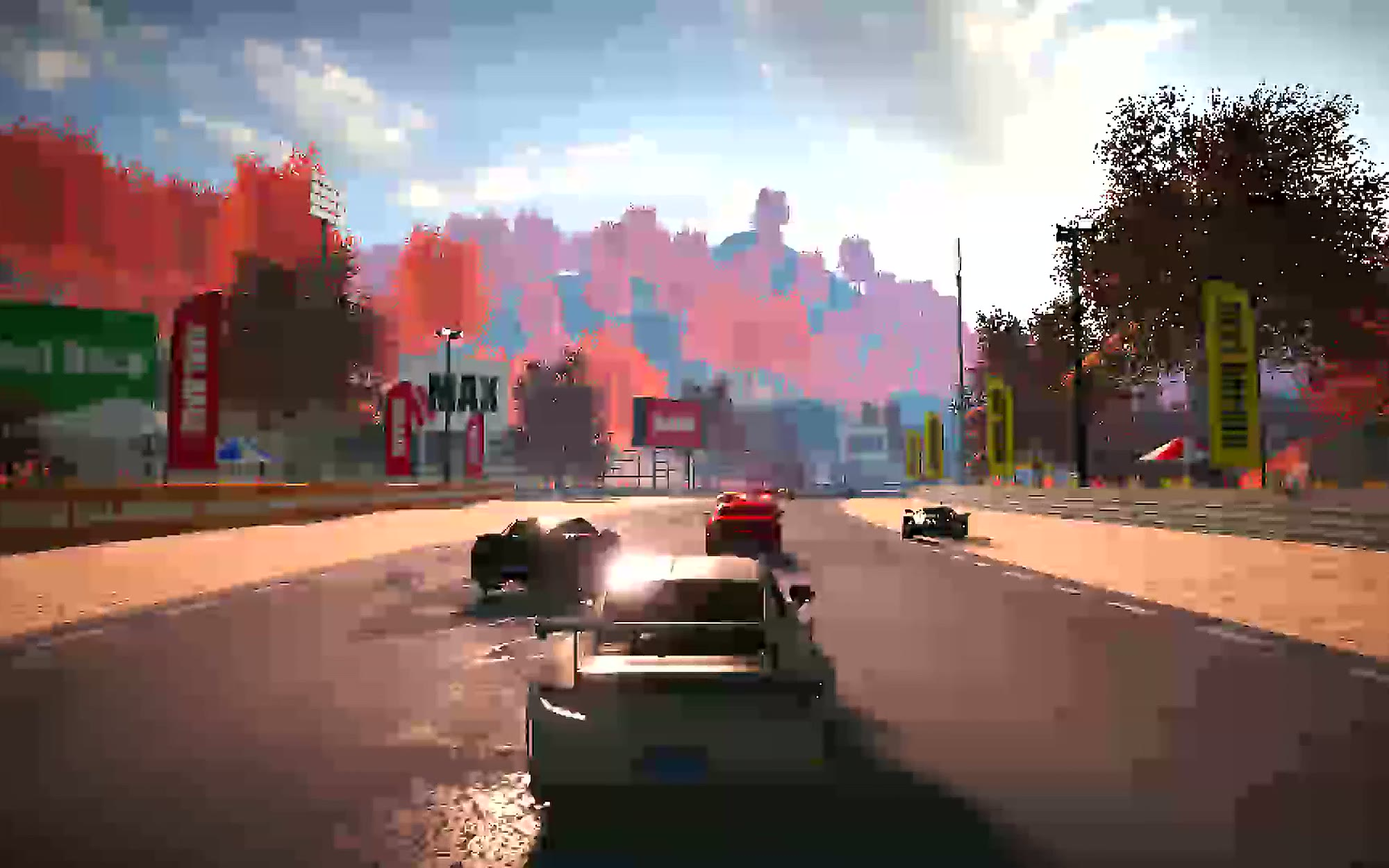
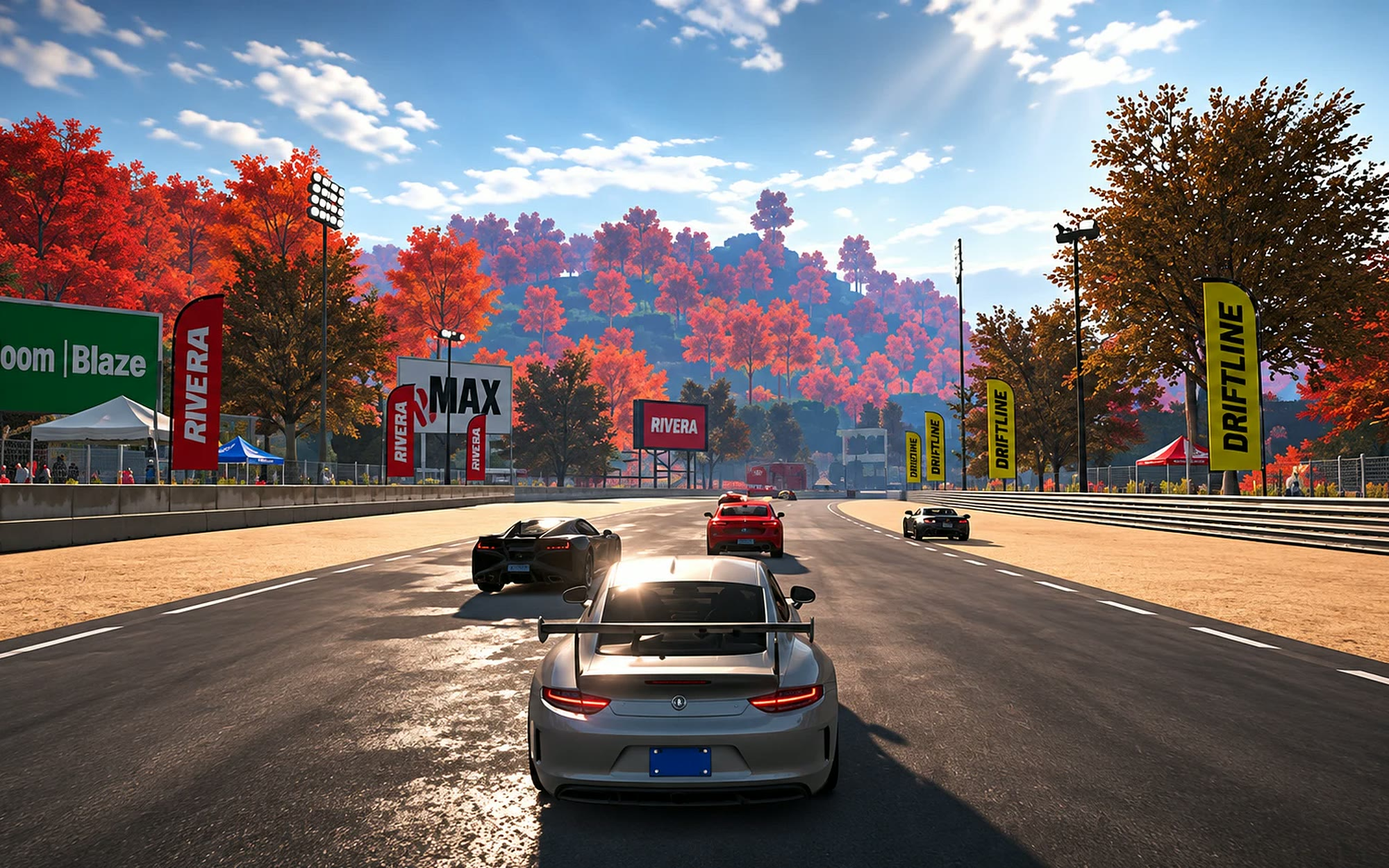
Use the upscaled racing art as the whole hero, and fix the scrim
The supplied upscale replaces the frame grab: sharper, cleaner, legible
signage. It now fills the hero on its own — the zoo slice is out for the
moment. The slice machinery stays, so adding a second path to heroSlices
splits the hero on the diagonal again; one path fills it.

Fixes a real bug the single image exposed. .hero-slices and the scrim
::before were both at z-index -2, and between equal z-indexes tree order
wins — ::before counts as the first child, so the art painted over the scrim
and the scrim did nothing at all. The art happened to be dark where the words
were, which is the only reason it looked fine. Art drops to -3; the scrim
composites now.

That invalidated the values either side of it, so both were retuned against
the real image, measured by compositing hero-racing.jpg with the applied
gradient on a canvas and sampling under the glyph rects:
- desktop: white 12.2 and 12.7, amber 3.49, body 13.0
- mobile:  white 9.5 and 10.6, amber 5.09, body 9.07
Large text needs 3:1 and body 4.5:1, so all clear with margin. The amber line
is the tight one — it runs furthest right, where the plate is weakest, and
measured 1.77:1 at one point before the rebalance.

Mobile keeps its own vertical scrim since the copy sits over the lower half
there rather than in a left-hand column.

diff --git a/src/index.css b/src/index.css
@@ -335,24 +335,19 @@ body {
 
 /* With real art in place the glows step back and a scrim keeps text legible. */
 .hero-cinematic.has-art::before {
-  /* Two layers: a soft plate anchored under the copy block, and a gentler
-     wash across the whole frame. Measured against the racing slice, a single
-     horizontal wash left the body text at 2.25:1 — the plate fixes that
-     without flattening the art on the right. */
+  /* A plate that stays strong across the whole copy column rather than
+     falling off radially — the headline runs to ~55% width and the amber
+     line was measuring 2.02:1 past the plate edge. */
   background:
-    radial-gradient(
-      95% 105% at 0% 72%,
-      rgba(4, 7, 12, 0.94) 0%,
-      rgba(4, 7, 12, 0.8) 40%,
-      transparent 74%
-    ),
     linear-gradient(
-      95deg,
-      rgba(5, 8, 14, 0.82) 0%,
-      rgba(5, 8, 14, 0.52) 45%,
-      rgba(5, 8, 14, 0.16) 74%,
-      rgba(5, 8, 14, 0.46) 100%
-    );
+      100deg,
+      rgba(4, 7, 12, 0.88) 0%,
+      rgba(4, 7, 12, 0.82) 38%,
+      rgba(4, 7, 12, 0.66) 58%,
+      rgba(4, 7, 12, 0.12) 80%,
+      rgba(4, 7, 12, 0.32) 100%
+    ),
+    linear-gradient(180deg, rgba(4, 7, 12, 0.25) 0%, transparent 38%, rgba(4, 7, 12, 0.28) 100%);
 }
 .hero-cinematic.has-art::after {
   display: none;
@@ -413,7 +408,9 @@ body {
 .hero-slices {
   position: absolute;
   inset: 0;
-  z-index: -2;
+  /* Below the scrim. Same z-index as ::before meant the art painted over it,
+     because tree order decides between equal z-indexes and ::before is first. */
+  z-index: -3;
 }
 .hero-slice {
   position: absolute;
@@ -459,10 +456,10 @@ body {
   .hero-cinematic.has-art::before {
     background: linear-gradient(
       180deg,
-      rgba(4, 7, 12, 0.42) 0%,
-      rgba(4, 7, 12, 0.62) 24%,
-      rgba(4, 7, 12, 0.88) 46%,
-      rgba(4, 7, 12, 0.93) 100%
+      rgba(4, 7, 12, 0.2) 0%,
+      rgba(4, 7, 12, 0.4) 26%,
+      rgba(4, 7, 12, 0.7) 48%,
+      rgba(4, 7, 12, 0.84) 100%
     );
   }
 }

diff --git a/src/Home.jsx b/src/Home.jsx
@@ -44,14 +44,20 @@ function Hero() {
       ref={heroRef}
       className={`hero-cinematic grain ${art ? "has-art" : ""}`}
     >
-      {/* Both games on one screen, cut on the logo's diagonal. */}
+      {/* One image fills the frame; two get cut on the logo's diagonal with a
+          lit seam between them. Add a second path to heroSlices to split it. */}
       {art && (
         <div className="hero-slices" aria-hidden="true">
-          <span className="hero-slice hero-slice-a" style={{ backgroundImage: `url(${slices[0]})` }} />
+          <span
+            className={`hero-slice ${slices[1] ? "hero-slice-a" : ""}`}
+            style={{ backgroundImage: `url(${slices[0]})` }}
+          />
           {slices[1] && (
-            <span className="hero-slice hero-slice-b" style={{ backgroundImage: `url(${slices[1]})` }} />
+            <>
+              <span className="hero-slice hero-slice-b" style={{ backgroundImage: `url(${slices[1]})` }} />
+              <span className="hero-seam" />
+            </>
           )}
-          {slices[1] && <span className="hero-seam" />}
         </div>
       )}
 

diff --git a/src/data.js b/src/data.js
@@ -17,7 +17,8 @@ export const STUDIO = {
   // Wide banner under the hero. Drop a file at public/hero.jpg and set this.
   // The hero is sliced diagonally between the two games, echoing the slash
   // in the logo. Order is left slice, right slice.
-  heroSlices: ["/hero-racing.jpg", "/hero-zoo.jpg"],
+  // One path fills the hero. Add a second and it splits on the diagonal.
+  heroSlices: ["/hero-racing.jpg"],
 };
 
 /* --------------------------------- Cartbo --------------------------------- */
